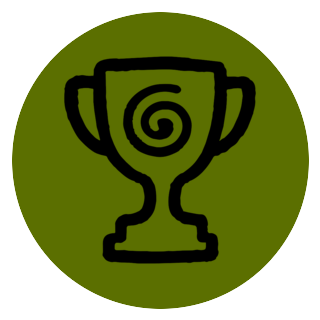
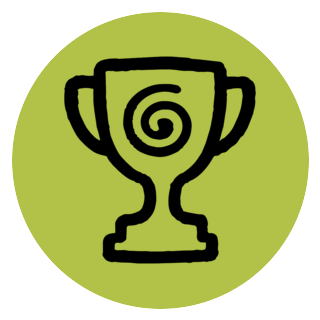
fix: :bug: get the oats green right!!!

diff --git a/src/styles/tokens.css b/src/styles/tokens.css
@@ -47,13 +47,13 @@
   --color-oats-off-white-a15: #ffffff26;
   --color-oats-off-white-a20: #fff3;
 
-  /* Olive brand ladder */
+  /* Olive brand ladder — brand green is 300: rgb(178, 194, 72) */
   --color-oats-green-50: #f2f6e1;
   --color-oats-green-100: #e5eacd;
   --color-oats-green-200: #d1e043;
-  --color-oats-green-300: #b2c248;
+  --color-oats-green-300: #b2c248; /* brand / Olive Press */
   --color-oats-green-400: #788c15;
-  --color-oats-green-500: #5b6f00;
+  --color-oats-green-500: #5b6f00; /* dark CTA / ink on light */
   --color-oats-green-600: #434625;
 
   /* Yellow highlighter */
@@ -124,10 +124,10 @@
 
   --oats-fill-primary: var(--color-oats-neutral-800);
   --oats-fill-primary-hover: var(--color-oats-neutral-700);
-  --oats-fill-accent: var(--color-oats-green-500);
-  --oats-fill-accent-hover: #4c5616;
-  --oats-fill-accent-highlight: #788c1526;
-  --oats-fill-accent-highlight-strong: #5b6f0033;
+  --oats-fill-accent: var(--color-oats-green-300);
+  --oats-fill-accent-hover: var(--color-oats-green-400);
+  --oats-fill-accent-highlight: #b2c24833;
+  --oats-fill-accent-highlight-strong: #b2c24855;
   --oats-fill-danger: var(--color-oats-red-300);
   --oats-fill-danger-hover: var(--color-oats-red-400);
   --oats-fill-disabled: var(--color-oats-neutral-300);
@@ -168,6 +168,7 @@
   --color-ink-accent-strong: var(--oats-ink-accent-strong);
   --color-ink-danger: var(--oats-ink-danger);
 
+  --color-brand: var(--color-oats-green-300); /* rgb(178, 194, 72) */
   --color-fill-primary: var(--oats-fill-primary);
   --color-fill-accent: var(--oats-fill-accent);
   --color-fill-accent-hover: var(--oats-fill-accent-hover);
@@ -369,7 +370,7 @@ html.dark {
 
   --oats-fill-primary: var(--color-oats-neutral-200);
   --oats-fill-primary-hover: var(--color-oats-neutral-400);
-  --oats-fill-accent: var(--color-oats-green-500);
+  --oats-fill-accent: var(--color-oats-green-300);
   --oats-fill-accent-hover: var(--color-oats-green-400);
   --oats-fill-danger: var(--color-oats-red-400);
   --oats-fill-danger-hover: var(--color-oats-red-300);
@@ -383,8 +384,8 @@ html.dark {
   --oats-fill-soft-hover: var(--color-oats-off-white-a15);
   --oats-fill-soft-opaque: var(--color-oats-neutral-750);
   --oats-fill-soft-opaque-hover: var(--color-oats-neutral-600);
-  --oats-fill-accent-highlight: #788c1533;
-  --oats-fill-accent-highlight-strong: #b2c24833;
+  --oats-fill-accent-highlight: #b2c24833;
+  --oats-fill-accent-highlight-strong: #b2c24855;
   --oats-fill-input: var(--color-oats-neutral-750);
   --oats-fill-input-disabled: var(--color-oats-neutral-750);
 

diff --git a/src/styles/chrome.css b/src/styles/chrome.css
@@ -15,7 +15,7 @@
   --chrome-radius: 12px;
   --chrome-padding: var(--space-md);
   --chrome-gap: var(--space-sm);
-  --chrome-tint: var(--oats-fill-accent-highlight);
+  --chrome-tint: var(--oats-fill-accent-highlight); /* brand green wash */
   --chrome-row-hover: var(--oats-fill-soft);
   --chrome-divider: var(--color-border);
 }
